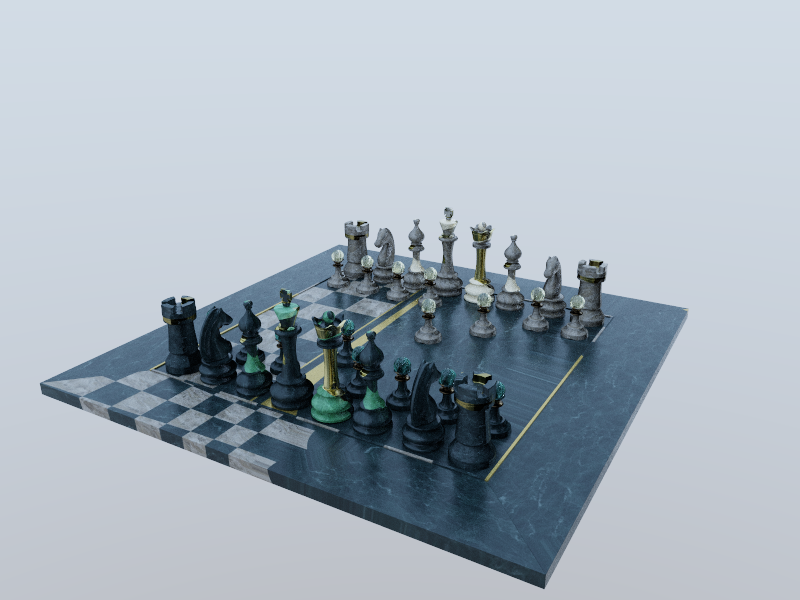
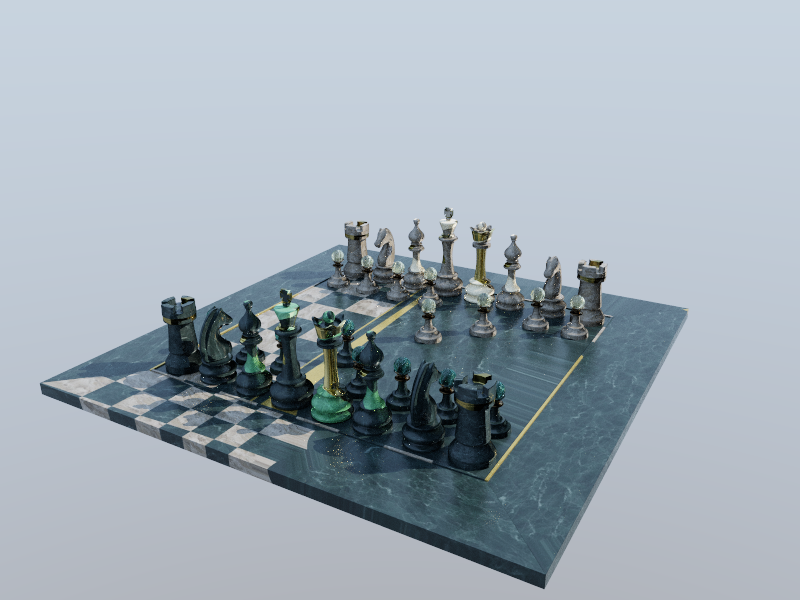
examples/mtlxrender: add directional sun light (NEE shadows)
Optional --sun directional delta light, next-event-estimated with shadow
rays, giving crisp cast shadows and specular highlights instead of flat
dome-only lighting. Azimuth/elevation/intensity via CLI. Updated hero
render and README example.

diff --git a/examples/mtlxrender/main.c b/examples/mtlxrender/main.c
@@ -52,6 +52,10 @@ static void usage(const char *prog) {
         "  --env-intensity <f>    env scale (default 1)\n"
         "  --env-rotation <deg>   HDRI azimuth rotation (default 0)\n"
         "  --sky                  procedural sky gradient (default: gray dome)\n"
+        "  --sun                  add a directional sun (crisp shadows)\n"
+        "  --sun-az <deg>         sun azimuth (default 130)\n"
+        "  --sun-el <deg>         sun elevation (default 45)\n"
+        "  --sun-intensity <f>    sun radiance scale (default 3)\n"
         "  --exposure <f>         PNG tonemap exposure (default 1)\n"
         "  --sss-walk             enable random-walk subsurface scattering\n"
         "  --hq                   high-quality SBVH build\n"
@@ -65,6 +69,9 @@ int main(int argc, char **argv) {
     int W = 800, H = 600, spp = 64, bounces = 8, threads = 0, hq = 0, sss_walk = 0, sky = 0;
     float exposure = 1.0f, env_intensity = 1.0f, env_rot = 0.0f;
     float cam_yaw = 35.0f, cam_pitch = 25.0f, cam_dist = 1.6f;
+    int sun_on = 0;
+    float sun_az = 130.0f, sun_el = 45.0f, sun_intensity = 3.0f;
+    v3 sun_color = {1.0f, 0.95f, 0.85f};
 
     for (int i = 1; i < argc; i++) {
         const char *a = argv[i];
@@ -82,6 +89,10 @@ int main(int argc, char **argv) {
         else if (!strcmp(a, "--env-intensity")) env_intensity = (float)atof(NEXT);
         else if (!strcmp(a, "--env-rotation")) env_rot = (float)atof(NEXT);
         else if (!strcmp(a, "--sky")) sky = 1;
+        else if (!strcmp(a, "--sun")) sun_on = 1;
+        else if (!strcmp(a, "--sun-az")) sun_az = (float)atof(NEXT);
+        else if (!strcmp(a, "--sun-el")) sun_el = (float)atof(NEXT);
+        else if (!strcmp(a, "--sun-intensity")) sun_intensity = (float)atof(NEXT);
         else if (!strcmp(a, "--exposure")) exposure = (float)atof(NEXT);
         else if (!strcmp(a, "--sss-walk")) sss_walk = 1;
         else if (!strcmp(a, "--hq")) hq = 1;
@@ -137,6 +148,14 @@ int main(int argc, char **argv) {
     cfg.width = W; cfg.height = H; cfg.spp = spp; cfg.max_bounces = bounces;
     cfg.nthreads = threads > 0 ? threads : (int)cpu_count();
     cfg.sss_walk = sss_walk; cfg.seed = 12345u;
+
+    /* directional sun from azimuth/elevation (degrees) */
+    cfg.sun.enabled = sun_on;
+    if (sun_on) {
+        float az = sun_az * (MTLX_PI / 180.0f), el = sun_el * (MTLX_PI / 180.0f);
+        cfg.sun.dir = v3_normalize(v3_make(cosf(el) * sinf(az), sinf(el), cosf(el) * cosf(az)));
+        cfg.sun.radiance = v3_scale(sun_color, sun_intensity);
+    }
 
     fprintf(stderr, "render %dx%d spp=%d bounces=%d threads=%d\n",
             W, H, spp, bounces, cfg.nthreads);

diff --git a/examples/mtlxrender/pathtrace.c b/examples/mtlxrender/pathtrace.c
@@ -103,7 +103,7 @@ static int sss_walk(const Scene *s, v3 *P, v3 N, const OpenPBRParams *p, pcg32 *
 }
 
 static v3 trace_path(const Scene *s, const MtlxDoc *doc, const MaterialBinding *bind,
-                     TextureCache *tex, const Env *env, lrt_ray ray,
+                     TextureCache *tex, const Env *env, const SunLight *sun, lrt_ray ray,
                      int max_bounces, int sss_walk_enabled, pcg32 *rng,
                      MtlxValue *memo, char *memo_done) {
     v3 radiance = v3_splat(0.0f);
@@ -155,6 +155,20 @@ static v3 trace_path(const Scene *s, const MtlxDoc *doc, const MaterialBinding *
                                                            v3_scale(L, ndl * w / pdf_l)));
                     }
                 }
+            }
+        }
+
+        /* ---- NEE for the directional sun (delta light, no MIS) ---- */
+        if (sun && sun->enabled) {
+            v3 wi_s = sun->dir;
+            float pdf_b;
+            v3 f = bsdf_eval(&params, Nsh, wo, wi_s, &pdf_b);
+            float ndl = fabsf(v3_dot(v3_normalize(Nsh), wi_s));
+            if ((f.x + f.y + f.z) > 0.0f && ndl > 0.0f) {
+                lrt_ray sr = make_ray(hi.P, wi_s, hi.Ng, 1e30f);
+                if (!lrt_tri_occluded1(s->bvh, &sr))
+                    radiance = v3_add(radiance, v3_mul(v3_mul(throughput, f),
+                                                       v3_scale(sun->radiance, ndl)));
             }
         }
 
@@ -219,7 +233,7 @@ static void *worker(void *arg) {
                     float px = (x + pcg32_f(&rng)) / W;
                     float py = (y + pcg32_f(&rng)) / H;
                     lrt_ray r = camera_ray(j->cam, px, py);
-                    v3 L = trace_path(j->s, j->doc, j->bind, j->tex, j->env, r,
+                    v3 L = trace_path(j->s, j->doc, j->bind, j->tex, j->env, &j->cfg->sun, r,
                                       j->cfg->max_bounces, j->cfg->sss_walk, &rng, memo, memo_done);
                     if (v3_is_finite(L)) sum = v3_add(sum, L);
                 }

diff --git a/examples/mtlxrender/pathtrace.h b/examples/mtlxrender/pathtrace.h
@@ -14,11 +14,18 @@
 #include "framebuffer.h"
 
 typedef struct {
+    int   enabled;
+    v3    dir;      /* direction TOWARD the sun (unit) */
+    v3    radiance; /* color * intensity */
+} SunLight;
+
+typedef struct {
     int   width, height;
     int   spp;
     int   max_bounces;
     int   nthreads;
     int   sss_walk;     /* enable random-walk subsurface scattering */
+    SunLight sun;       /* optional directional delta light */
     unsigned seed;
 } RenderConfig;
 

diff --git a/examples/mtlxrender/README.md b/examples/mtlxrender/README.md
@@ -51,13 +51,16 @@ MTLX=~/work/MaterialX/resources/Materials/Examples/StandardSurface/standard_surf
 GLB=~/work/MaterialX/resources/Geometry/chess_set.glb
 
 ./mtlxrender --gltf $GLB --mtlx $MTLX \
-    --w 800 --h 600 --spp 128 --bounces 6 --sky \
-    --cam-yaw 30 --cam-pitch 22 --cam-dist 1.05 --exposure 1.6 \
+    --w 800 --h 600 --spp 128 --bounces 6 \
+    --sky --sun --sun-az 125 --sun-el 38 --sun-intensity 3.5 \
+    --cam-yaw 30 --cam-pitch 22 --cam-dist 1.05 --exposure 1.3 \
     --out chess.exr --png chess.png
 ```
 
-Run `./mtlxrender --help` for the full option list (camera orbit, environment
-HDRI via `--env file.exr`, thread count, etc.).
+`--sun` adds a directional light (NEE shadow rays) for crisp cast shadows;
+drop it for soft dome-only lighting. Run `./mtlxrender --help` for the full
+option list (camera orbit, environment HDRI via `--env file.exr`, thread
+count, etc.).
 
 ## Dependencies (vendored, under `deps/`, git-ignored)
 
